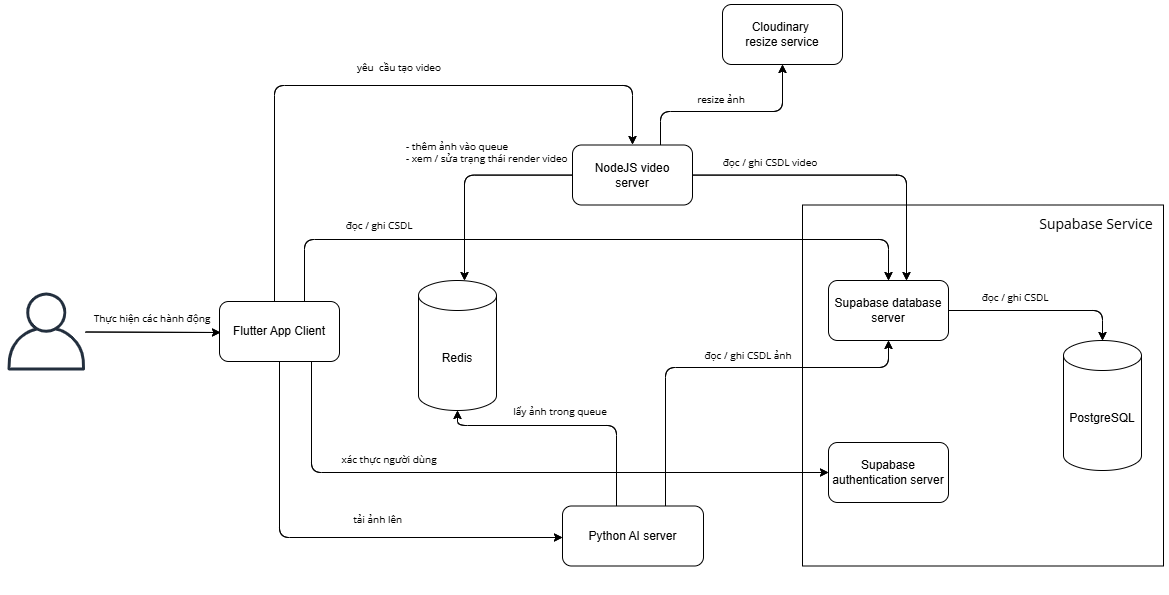
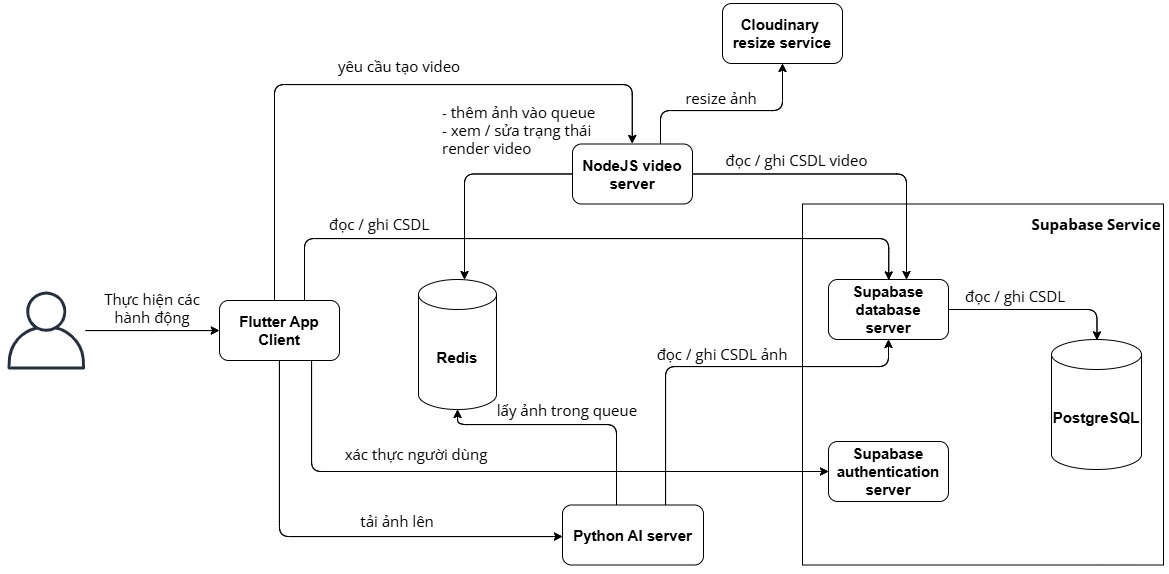
fix: "minor fix" and TODO list after this discussion this morning with Mr Trinh:)

diff --git a/chapters/c4/system_function/4.2.1_authentication.tex b/chapters/c4/system_function/4.2.1_authentication.tex
@@ -1,24 +1,24 @@
 \subsection{Xác thực người dùng}
 
-Hệ thống yêu cầu người dùng phải đăng nhập để sử dụng các chức năng của hệ thống như Hình \ref{fig:login-screen}. Người dùng tại đây có thể nhập tên tài khoản và mật khẩu đã đăng ký trước đó để truy cập vào hệ thống. 
+% Hệ thống yêu cầu người dùng phải đăng nhập để sử dụng các chức năng của hệ thống như Hình \ref{fig:login-screen}. Người dùng tại đây có thể nhập tên tài khoản và mật khẩu đã đăng ký trước đó để truy cập vào hệ thống. 
 
-Trường hợp người dùng chưa có tài khoản, hệ thống sẽ cung cấp chức năng đăng ký tài khoản mới có giao diện như Hình \ref{fig:signup-screen}.
+% Trường hợp người dùng chưa có tài khoản, hệ thống sẽ cung cấp chức năng đăng ký tài khoản mới có giao diện như Hình \ref{fig:signup-screen}.
 
-\begin{figure}[H]
-    \centering
-    \begin{subfigure}{0.48\textwidth}
-        \includegraphics[width=1\linewidth]{figures/c4/4-2/login.png} 
-        \caption{Giao diện đăng nhập}
-        \label{fig:login-screen}
-    \end{subfigure}
-    \hfill
-    \begin{subfigure}{0.48\textwidth}
-        \includegraphics[width=1\linewidth]{figures/c4/4-2/sign_up.png} 
-        \caption{Giao diện đăng ký}
-        \label{fig:signup-screen}
-    \end{subfigure}
-    \caption{Giao diện xác thực người dùng.}
-\end{figure}
+% \begin{figure}[H]
+%     \centering
+%     \begin{subfigure}{0.48\textwidth}
+%         \includegraphics[width=1\linewidth]{figures/c4/4-2/login.png} 
+%         \caption{Giao diện đăng nhập}
+%         \label{fig:login-screen}
+%     \end{subfigure}
+%     \hfill
+%     \begin{subfigure}{0.48\textwidth}
+%         \includegraphics[width=1\linewidth]{figures/c4/4-2/sign_up.png} 
+%         \caption{Giao diện đăng ký}
+%         \label{fig:signup-screen}
+%     \end{subfigure}
+%     \caption{Giao diện xác thực người dùng.}
+% \end{figure}
 
 Sau khi người dùng tạo tài khoản thành công, hệ thống sẽ điều hướng người dùng đến trang điền thông tin tài khoản như Hình \ref{fig:basic-information-screen}. Tại đây, người dùng sẽ phải điền ngày sinh, tên, ảnh đại diện, upload 1 số ảnh cá nhân và thực hiện khảo sát hệ thống trước khi tiến hành sử dụng chức năng chính của hệ thống.
 
@@ -41,15 +41,14 @@ Sau khi người dùng tạo tài khoản thành công, hệ thống sẽ điề
         \caption{Form kết quả upload ảnh}
         \label{fig:survey-form}
     \end{subfigure}
-    \caption{Giao diện điền thông tin người dùng.}
     \label{fig:basic-information-screen}
 \end{figure}
 
-Sau khi đăng ký tài khoản, người dùng có thể kiểm tra thông tin cá nhân tại màn hình thông tin cá nhân như Hình \ref{fig:profile-screen}. 
+% Sau khi đăng ký tài khoản, người dùng có thể kiểm tra thông tin cá nhân tại màn hình thông tin cá nhân như Hình \ref{fig:profile-screen}. 
 
-\begin{figure}[H]
-    \centering  
-    \includegraphics[width=0.5\textwidth]{figures/c4/4-2/profile.png}
-    \caption{Giao diện thông tin cá nhân.}
-    \label{fig:profile-screen}
-\end{figure}
+% \begin{figure}[H]
+%     \centering  
+%     \includegraphics[width=0.5\textwidth]{figures/c4/4-2/profile.png}
+%     \caption{Giao diện thông tin cá nhân.}
+%     \label{fig:profile-screen}
+% \end{figure}

diff --git a/chapters/c4/system_design/4.1.2/4.1.2_design_system.tex b/chapters/c4/system_design/4.1.2/4.1.2_design_system.tex
@@ -23,7 +23,7 @@ Kiến trúc của hệ thống hoạt động theo như Hình 4.7
 
 \textbf{Supabase Service}: được sử dụng cho các chức năng như lưu trữ ảnh, video, thông tin người dùng và lắng nghe thời gian thực về sự thay đổi của dữ liệu. Bao gồm các dịch vụ như sau:
 \begin{itemize}
-    \item[-] Supabase database server: lưu trữ các bảng dữ liệu như users, videos, images, faces, ...và các dữ liệu tệp tin khác như ảnh, video.
+    \item[-] Supabase database server: lưu trữ các bảng dữ liệu như users, videos, images, faces, v.v. và các dữ liệu tệp tin khác như ảnh, video.
     \item[-] Supabase authentication server: thực hiện xác thực và ủy quyền người dùng. Hệ thống sử dụng JWT token để xác thực người dùng và phân quyền truy cập cho các dịch vụ trong hệ thống.
     \item[-] PostgreSQL: là hệ quản trị cơ sở dữ liệu được Supabase sử dụng.  
 \end{itemize}

diff --git a/tomtat.tex b/tomtat.tex
@@ -175,6 +175,8 @@
       {]}{{{\color{delim}{]}}}}{1},
 }
 
+\renewcommand{\lstlistingname}{Đoạn mã}
+
 \definecolor{codegreen}{rgb}{0,0.6,0}
 \definecolor{codegray}{rgb}{0.5,0.5,0.5}
 \definecolor{codepurple}{rgb}{0.58,0,0.82}

diff --git a/chapters/c4/testing/4.3.2_e2e_testing.tex b/chapters/c4/testing/4.3.2_e2e_testing.tex
@@ -1,1 +1,1 @@
-\subsection{Kiểm thử phía người dùng}
+\subsection{Kiểm thử tương tác người dùng trên giao diện ứng dụng}

diff --git a/TODO.md b/TODO.md
@@ -1,0 +1,13 @@
+## TODO
+- [ ] Viet bao cao POSTMAN -> bang nested row (route -> kich ban -> expect -> result) + caption folder test POSTMAN
+- [ ] viet failed test trong E2E testing -> bao cao
+- [ ] sua "..." -> "v.v." 
+- [ ] max 70 trang
+- [ ] chỉnh chữ extend + include lên bên trên
+- [ ] bỏ mô tả usecase -> max 10 cai -> 3.3
+- [ ] add description for use-case diagram -> 3.3 -> VD: trong usecase diagram có người dung tương tác -> .....
+
+## DONE 
+- [x] remove log in / sign up -> in 4.2 
+- [x] fix JSON lstlisting caption
+- [x] increase font size of system design diagram
